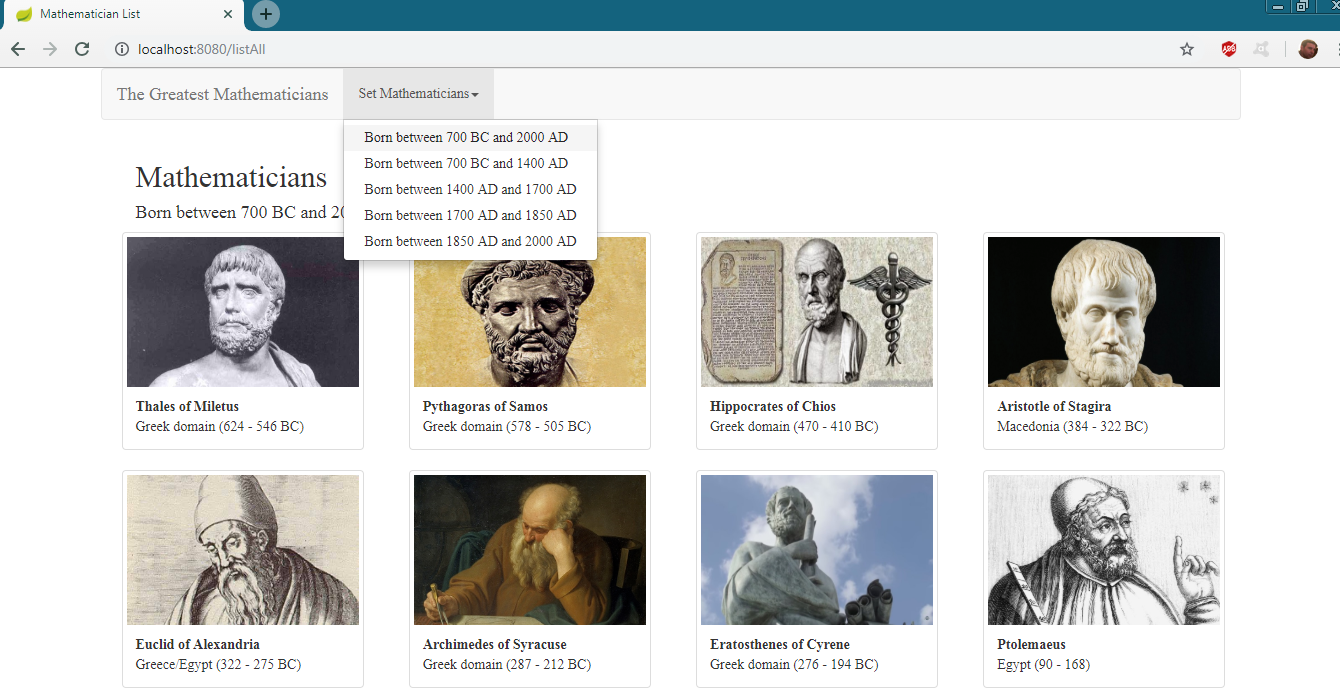
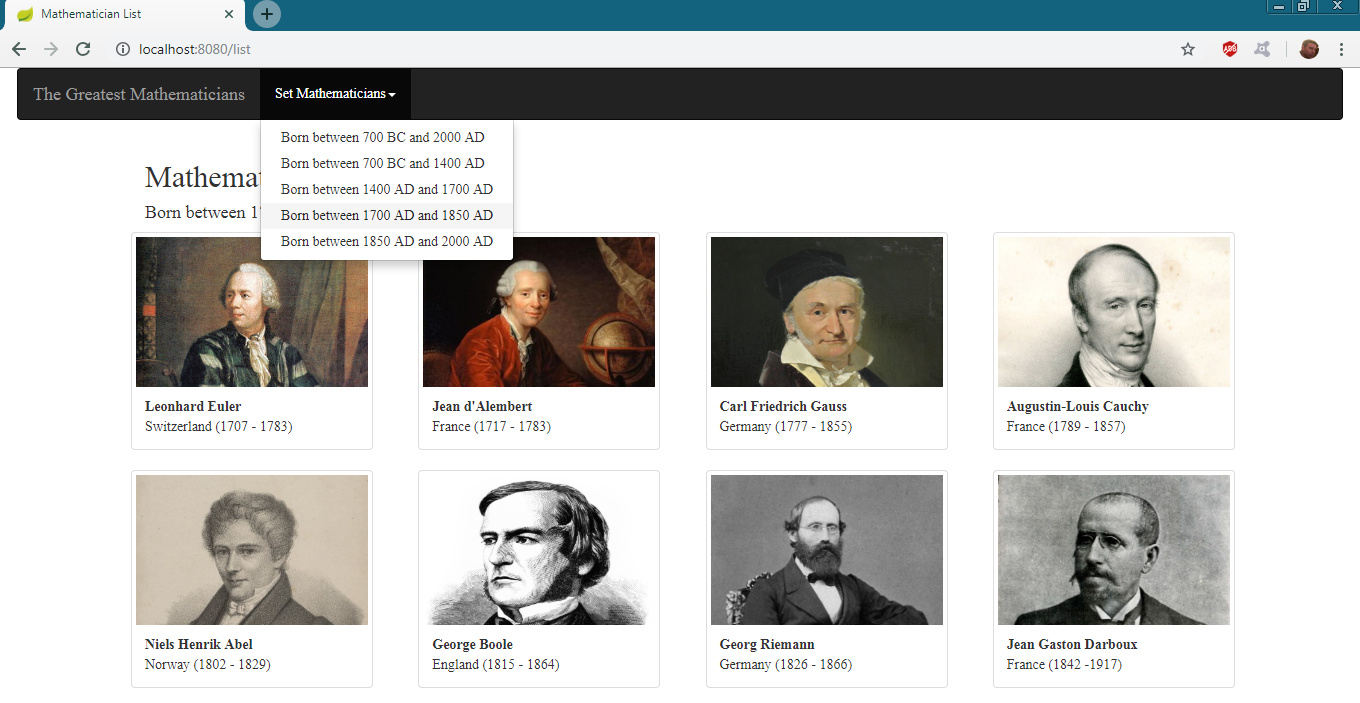
change navbar

diff --git a/src/main/resources/templates/maths_list.html b/src/main/resources/templates/maths_list.html
@@ -8,59 +8,51 @@
     <script src="https://ajax.googleapis.com/ajax/libs/jquery/3.3.1/jquery.min.js"></script>
     <script src="https://cdnjs.cloudflare.com/ajax/libs/popper.js/1.14.3/umd/popper.min.js"></script>
     <script src="https://maxcdn.bootstrapcdn.com/bootstrap/3.3.7/js/bootstrap.min.js"></script>
-
 </head>
 <body>
-
-<div class="container">
-
-    <nav class="navbar navbar-default">
-        <div class="container-fluid">
-            <div class="navbar-header">
-                <a class="navbar-brand" style="font-family: 'sans-serif'" href="#">The Greatest Mathematicians</a>
-            </div>
-            <ul class="nav navbar-nav">
-                <li class="dropdown" style="font-family: 'sans-serif'">
-                    <a href="#" class="dropdown-toggle" data-toggle="dropdown" role="button" aria-haspopup="true" aria-expanded="false">Set Mathematicians<span class="caret"></span></a>
-                    <ul class="dropdown-menu">
-                        <li><a th:href="@{/listAll}">Born between 700 BC and 2000 AD</a></li>
-                        <li><a th:href="@{/list1}">Born between 700 BC and 1400 AD</a></li>
-                        <li><a th:href="@{/list2}">Born between 1400 AD and 1700 AD</a></li>
-                        <li><a th:href="@{/list3}">Born between 1700 AD and 1850 AD</a></li>
-                        <li><a th:href="@{/list4}">Born between 1850 AD and 2000 AD</a></li>
-                    </ul>
-                </li>
-            </ul>
+<nav class="navbar navbar-inverse" style="margin-left: 20px; margin-right: 20px">
+    <div class="container-fluid">
+        <div class="navbar-header">
+            <a class="navbar-brand" style="font-family: 'sans-serif'" href="#">The Greatest Mathematicians</a>
         </div>
-    </nav>
-
+        <ul class="nav navbar-nav">
+            <li class="dropdown" style="font-family: 'sans-serif'">
+                <a href="#" class="dropdown-toggle" data-toggle="dropdown" role="button" aria-haspopup="true"
+                   aria-expanded="false">Set Mathematicians<span class="caret"></span></a>
+                <ul class="dropdown-menu">
+                    <li><a th:href="@{/listAll}">Born between 700 BC and 2000 AD</a></li>
+                    <li><a th:href="@{/list1}">Born between 700 BC and 1400 AD</a></li>
+                    <li><a th:href="@{/list2}">Born between 1400 AD and 1700 AD</a></li>
+                    <li><a th:href="@{/list3}">Born between 1700 AD and 1850 AD</a></li>
+                    <li><a th:href="@{/list4}">Born between 1850 AD and 2000 AD</a></li>
+                </ul>
+            </li>
+        </ul>
+    </div>
+</nav>
+<div class="container">
     <div class="container-fluid" style="margin-left: 20px">
         <h2 style="font-family: 'sans-serif'">Mathematicians</h2>
-        <h4 style="font-family: 'sans-serif'">Born between <span th:text="${lived[0]}"></span> and <span th:text="${lived[1]}"></span></h4>
+        <h4 style="font-family: 'sans-serif'">Born between <span th:text="${lived[0]}"></span> and <span
+                th:text="${lived[1]}"></span></h4>
     </div>
-
     <div class="row" style="margin-left: 6px">
         <div th:each="math : ${mathematicians}">
-        <div class="col-md-3">
+            <div class="col-md-3">
 
-            <div class="thumbnail" style="width: 242px; height: 218px">
-                <a th:href="@{/mathematicianStory/{id}(id=${math.mathematicianID})}">
-                <img th:src="${math.image}" style="width: 242px; height: 150px" alt="...">
-            </a>
-                <div class="caption">
-
-                    <b th:text="${math.name}" style="font-family: 'sans-serif'"></b>
-
-                    <p th:text="${math.lived}" style="font-family: 'sans-serif'"></p>
-                   <!-- <p><a th:href="@{/mathematicianStory/{id}(id=${math.mathematicianID})}" class="btn btn-primary btn-xs" role="button" style="font-family: 'sans-serif'">Read more</a></p>-->
+                <div class="thumbnail" style="width: 242px; height: 218px">
+                    <a th:href="@{/mathematicianStory/{id}(id=${math.mathematicianID})}">
+                        <img th:src="${math.image}" style="width: 242px; height: 150px" alt="...">
+                    </a>
+                    <div class="caption">
+                        <b th:text="${math.name}" style="font-family: 'sans-serif'"></b>
+                        <p th:text="${math.lived}" style="font-family: 'sans-serif'"></p>
+                    </div>
                 </div>
-            </div>
 
-        </div>
+            </div>
         </div>
     </div>
-
 </div>
-
 </body>
 </html>

diff --git a/src/main/resources/templates/math_story.html b/src/main/resources/templates/math_story.html
@@ -8,50 +8,40 @@
     <script src="https://ajax.googleapis.com/ajax/libs/jquery/3.3.1/jquery.min.js"></script>
     <script src="https://cdnjs.cloudflare.com/ajax/libs/popper.js/1.14.3/umd/popper.min.js"></script>
     <script src="https://maxcdn.bootstrapcdn.com/bootstrap/3.3.7/js/bootstrap.min.js"></script>
-
 </head>
 <body>
-
-<div class="container">
-
-    <nav class="navbar navbar-default">
-        <div class="container-fluid">
-            <div class="navbar-header">
-                <a class="navbar-brand" style="font-family: 'sans-serif'" href="#">The Greatest Mathematicians</a>
-            </div>
-            <ul class="nav navbar-nav">
-                <li class="dropdown" style="font-family: 'sans-serif'">
-                    <a href="#" class="dropdown-toggle" data-toggle="dropdown" role="button" aria-haspopup="true" aria-expanded="false">Set Mathematicians<span class="caret"></span></a>
-                    <ul class="dropdown-menu">
-                        <li><a th:href="@{/listAll}">Born between 700 BC and 2000 AD</a></li>
-                        <li><a th:href="@{/list1}">Born between 700 BC and 1400 AD</a></li>
-                        <li><a th:href="@{/list2}">Born between 1400 AD and 1700 AD</a></li>
-                        <li><a th:href="@{/list3}">Born between 1700 AD and 1850 AD</a></li>
-                        <li><a th:href="@{/list4}">Born between 1850 AD and 2000 AD</a></li>
-                    </ul>
-                </li>
-            </ul>
+<nav class="navbar navbar-inverse" style="margin-left: 20px; margin-right: 20px">
+    <div class="container-fluid">
+        <div class="navbar-header">
+            <a class="navbar-brand" style="font-family: 'sans-serif'" href="#">The Greatest Mathematicians</a>
         </div>
-    </nav>
-
-
+        <ul class="nav navbar-nav">
+            <li class="dropdown" style="font-family: 'sans-serif'">
+                <a href="#" class="dropdown-toggle" data-toggle="dropdown" role="button" aria-haspopup="true"
+                   aria-expanded="false">Set Mathematicians<span class="caret"></span></a>
+                <ul class="dropdown-menu">
+                    <li><a th:href="@{/listAll}">Born between 700 BC and 2000 AD</a></li>
+                    <li><a th:href="@{/list1}">Born between 700 BC and 1400 AD</a></li>
+                    <li><a th:href="@{/list2}">Born between 1400 AD and 1700 AD</a></li>
+                    <li><a th:href="@{/list3}">Born between 1700 AD and 1850 AD</a></li>
+                    <li><a th:href="@{/list4}">Born between 1850 AD and 2000 AD</a></li>
+                </ul>
+            </li>
+        </ul>
+    </div>
+</nav>
+<div class="container">
     <div class="media" style="margin-top: 50px">
         <div class="media-left media-top">
-
-                <img class="media-object" th:src="${math.image}"  height="300" width="400" alt="Image">
+            <img class="media-object" th:src="${math.image}" height="350" width="500" alt="Image">
             <h3 class="media-object"><b style="font-family: 'sans-serif';" th:text="${math.name}"/></h3>
             <h4 class="media-object"><b style="font-family: 'sans-serif';" th:text="${math.lived}"/></h4>
-
         </div>
         <div class="media-body">
-           <!-- <h4 class="media-heading"></h4>-->
-            <h3 class="media-heading" style=" margin-left: 20px; font-family: 'sans-serif';"
-                   th:text="${math.text}"></h3>
+            <h4 class="media-heading" style=" margin-left: 20px; margin-top: 5px; font-family: 'sans-serif'"
+                th:text="${math.text}"></h4>
         </div>
     </div>
-
-
 </div>
-
 </body>
 </html>

diff --git a/src/main/java/com/zeljko/mathematicians2/controller/MathematicianController.java b/src/main/java/com/zeljko/mathematicians2/controller/MathematicianController.java
@@ -54,7 +54,7 @@ public class MathematicianController {
 
 	@GetMapping("/list2")
 	public String list2(){
-		lived1 = "1400 BC";
+		lived1 = "1400 AD";
 		lived2 = "1700 AD";
 		from = 13;
 		to = 21;
@@ -63,7 +63,7 @@ public class MathematicianController {
 
 	@GetMapping("/list3")
 	public String list3(){
-		lived1 = "1700 BC";
+		lived1 = "1700 AD";
 		lived2 = "1850 AD";
 		from = 21;
 		to = 29;
@@ -72,7 +72,7 @@ public class MathematicianController {
 
 	@GetMapping("/list4")
 	public String list4(){
-		lived1 = "1850 BC";
+		lived1 = "1850 AD";
 		lived2 = "2000 AD";
 		from = 29;
 		to = 37;
